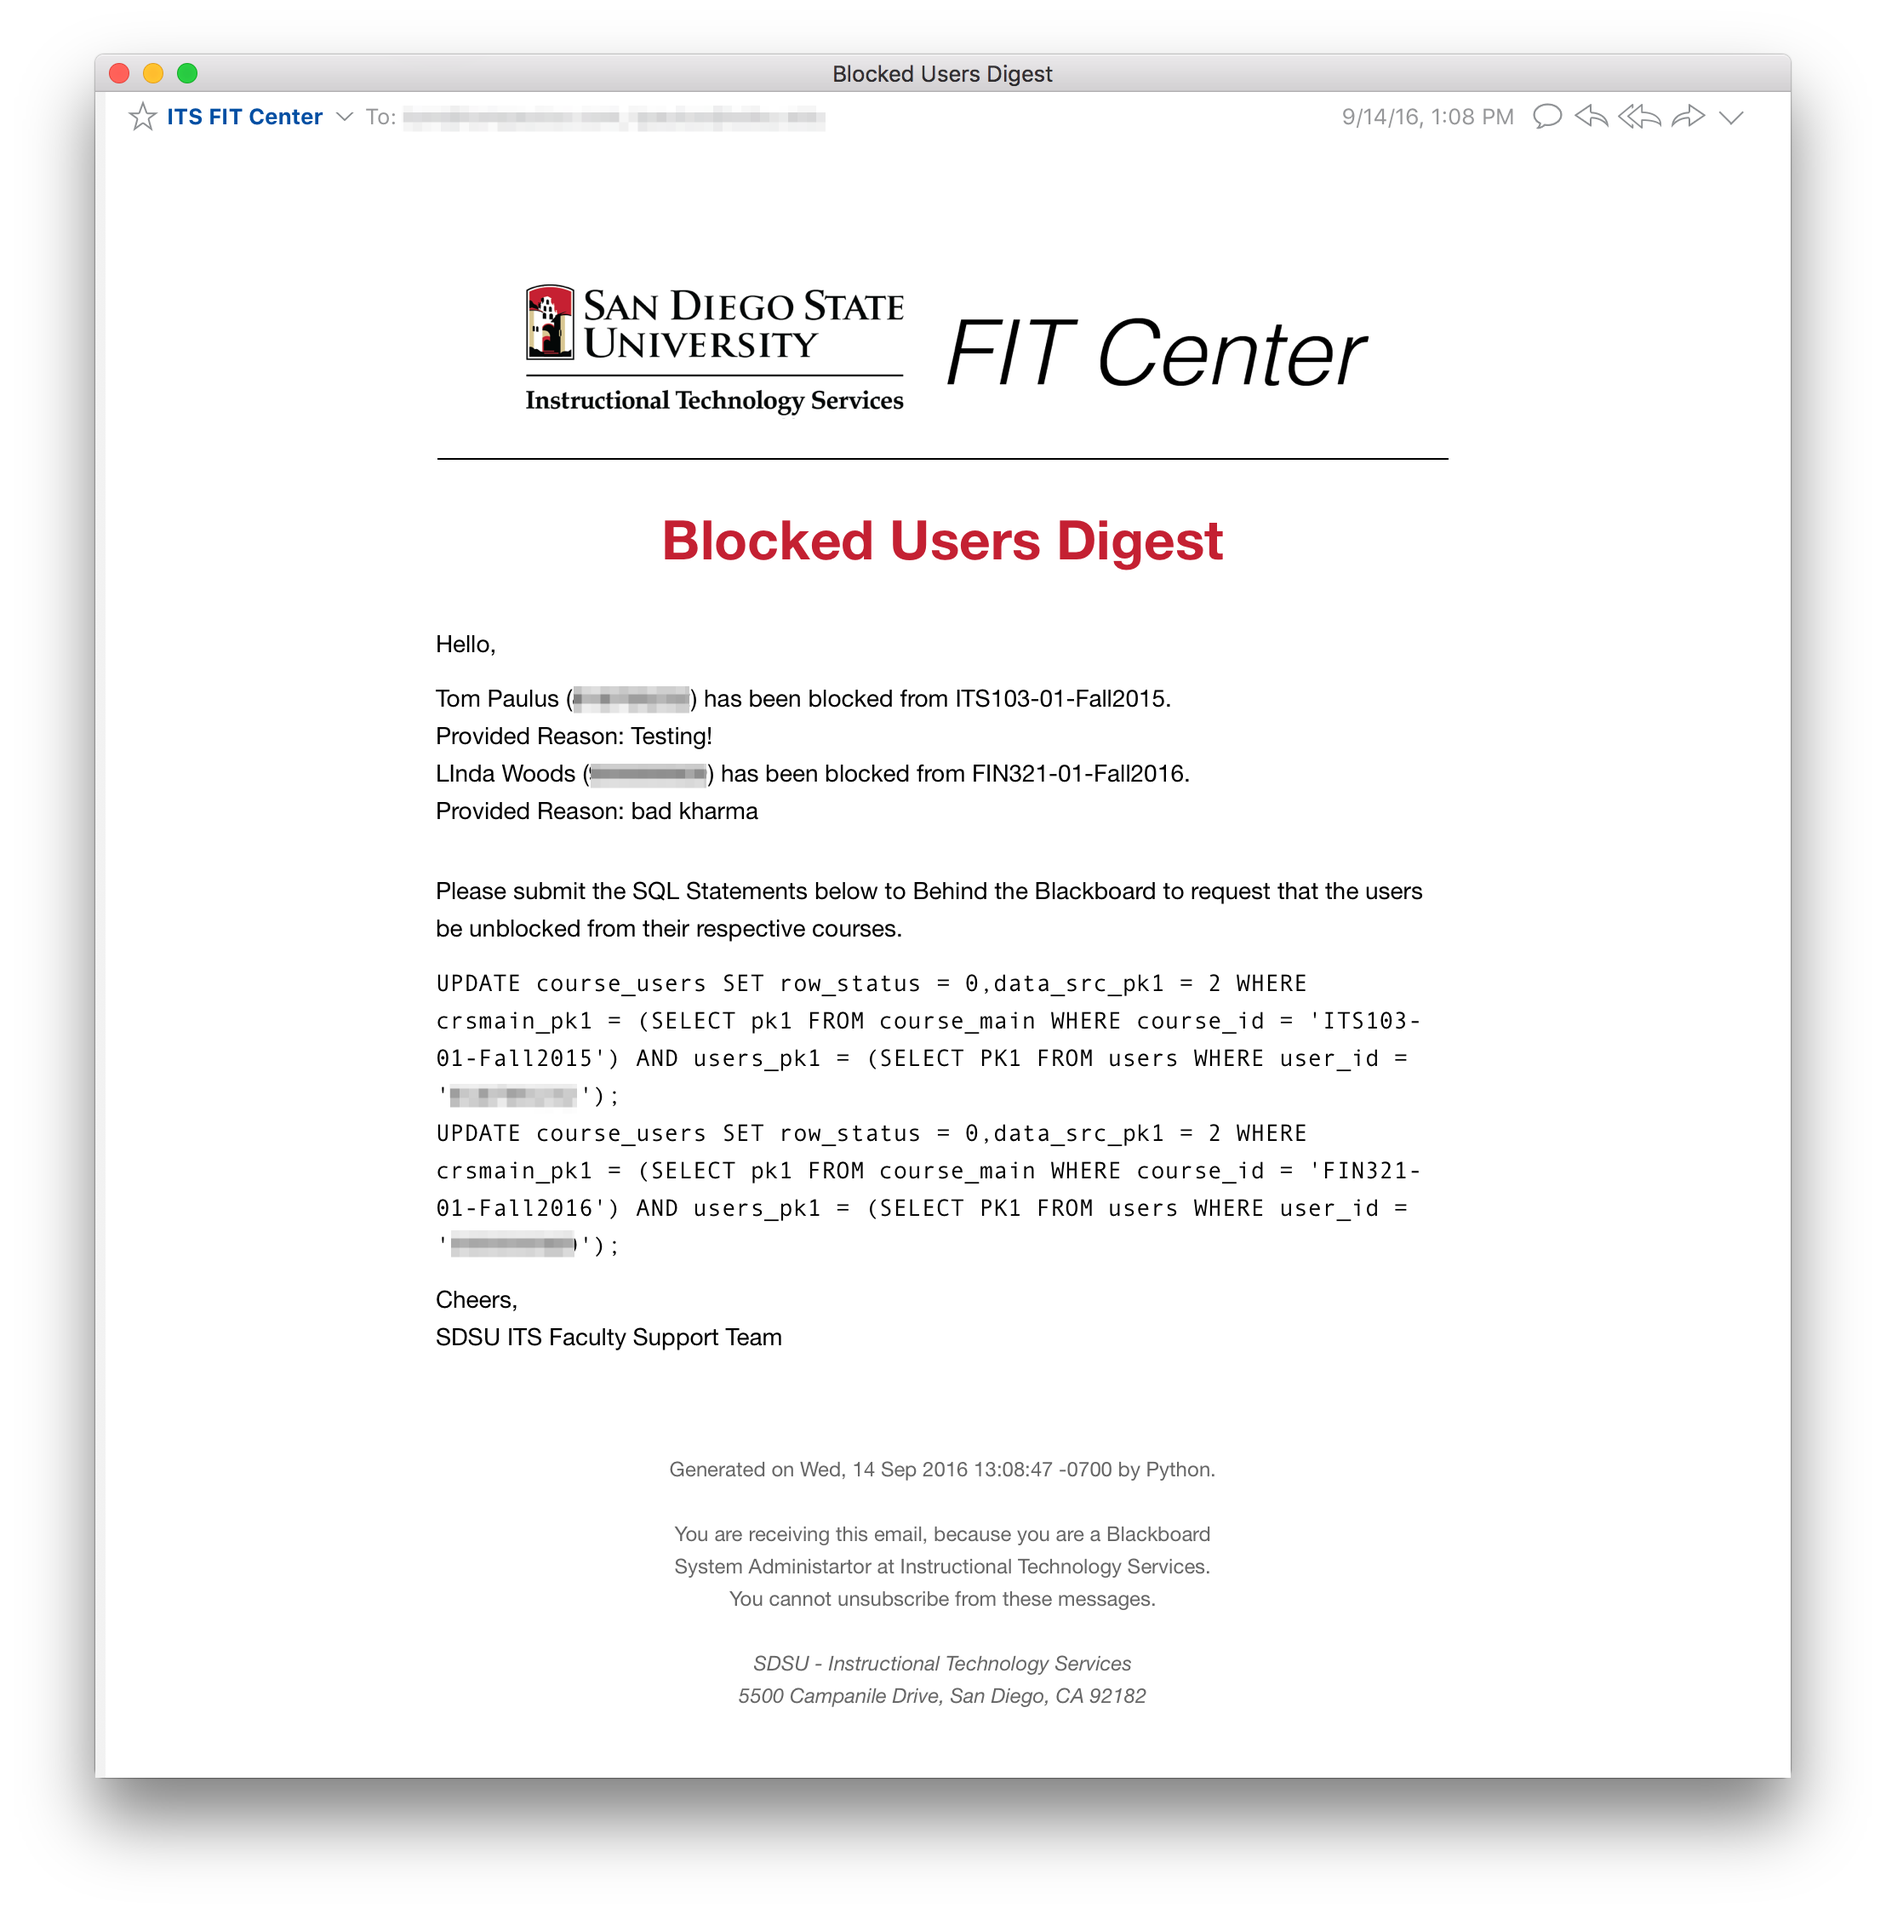
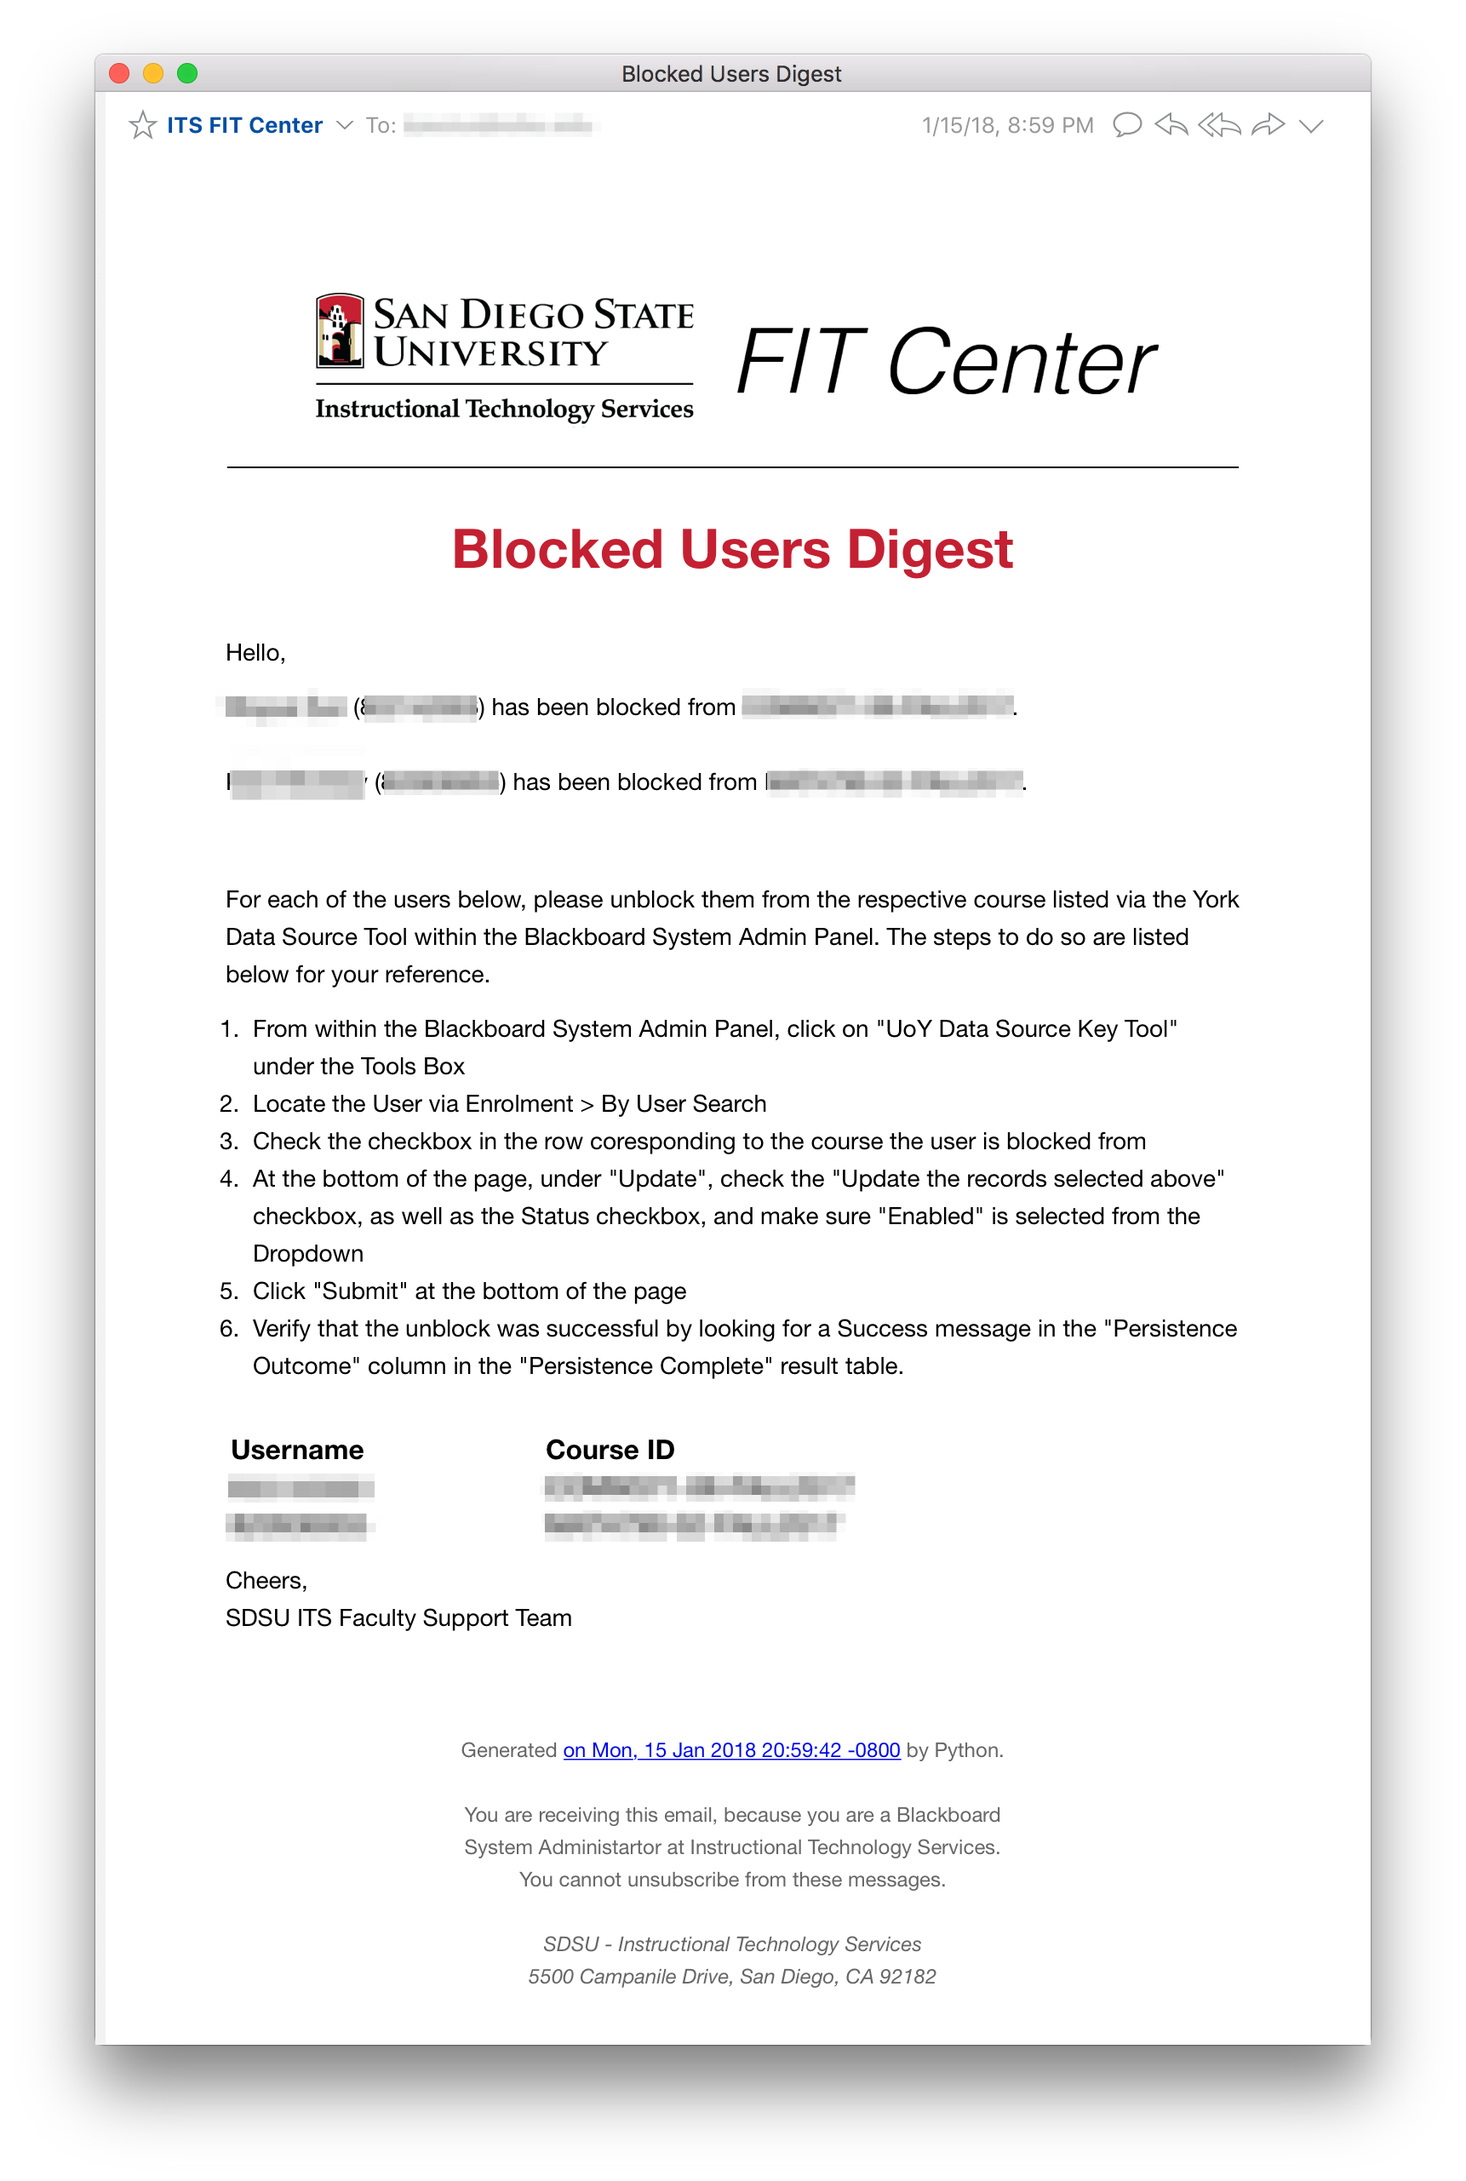
Changed template for use with UoY DSK Tool B2.

Changed region(s): [[0.1539, 0.1246, 0.831, 0.7473], [0.0308, 0.0311, 0.9541, 0.9653]]

diff --git a/email_template.html b/email_template.html
@@ -44,13 +44,40 @@
                             </p>
 
                             <p style="font-family: 'Helvetica Neue', 'Helvetica', Helvetica, Arial, sans-serif; font-size: 14px; line-height: 1.6; font-weight: normal; margin: 0 0 10px; padding: 0; padding-top: 15px">
-                                Please submit the SQL Statements below to Behind the Blackboard to request that the
-                                users be unblocked from their respective courses.
+                                For each of the users below, please unblock them from the respective course listed via
+                                the York Data Source Tool within the Blackboard System Admin Panel. The steps to do so
+                                are listed below for your reference.
+
                             </p>
 
-                            <p style="font-family: 'Andale Mono', monospace, sans-serif; font-size: 14px; line-height: 1.6; font-weight: normal; margin: 0 0 10px; padding: 0;">
-                                {{ blocked_user_sql }}
-                            </p>
+                            <ol style="font-family: 'Helvetica Neue', 'Helvetica', Helvetica, Arial, sans-serif; font-size: 14px; line-height: 1.6; font-weight: normal; margin: 0 0 10px 16px; padding: 0;">
+                                <li>From within the Blackboard System Admin Panel, click on "UoY Data Source Key Tool"
+                                    under the Tools Box
+                                </li>
+                                <li>Locate the User via Enrolment > By User Search</li>
+                                <li>Check the checkbox in the row coresponding to the course the user is blocked from
+                                </li>
+                                <li>At the bottom of the page, under "Update", check the "Update the records selected
+                                    above" checkbox, as well as the Status checkbox, and make sure "Enabled" is selected
+                                    from the Dropdown
+                                </li>
+                                <li>Click "Submit" at the bottom of the page</li>
+                                <li>Verify that the unblock was successful by looking for a Success message in the
+                                    "Persistence Outcome" column in the "Persistence Complete" result table.
+                                </li>
+                            </ol>
+
+                            <div style="font-family: 'Helvetica Neue', 'Helvetica', Helvetica, Arial, sans-serif; font-size: 14px; line-height: 1.6; font-weight: normal; margin: 0 0 10px; padding: 0; padding-top: 15px">
+                                <table style="width: 100%; text-align: left">
+                                    <thead>
+                                    <th>Username</th>
+                                    <th>Course ID</th>
+                                    </thead>
+                                    <tbody>
+                                    {{ blocked_tbody }}
+                                    </tbody>
+                                </table>
+                            </div>
 
                             <p style="font-family: 'Helvetica Neue', 'Helvetica', Helvetica, Arial, sans-serif; font-size: 14px; line-height: 1.6; font-weight: normal; margin: 0 0 10px; padding: 0;">
                                 Cheers, <br/>

diff --git a/blocked_users.py b/blocked_users.py
@@ -19,10 +19,10 @@ import requests
 
 logging.basicConfig(level=logging.DEBUG, format='%(asctime)s - %(levelname)s - %(message)s')
 
-# noinspection SqlNoDataSourceInspection,SqlResolve
-SQL_CMD = "UPDATE course_users SET row_status = 0, data_src_pk1 = 2 WHERE crsmain_pk1 = (SELECT pk1 FROM course_main " \
-          "WHERE upper(course_id) = '%s') AND users_pk1 = (SELECT PK1 FROM users WHERE user_id = '%s');"
-
+TABLE_ROW = "<tr>" \
+            "<td>%s</td>" \
+            "<td>%s</td>" \
+            "</tr>"
 
 class Config(object):
     config_directory = expanduser("~") + ("/" if not expanduser("~").endswith("/") else '') + 'its'
@@ -370,7 +370,7 @@ if __name__ == "__main__":
     responses = Typeform.get_responses()
 
     email_needed = False
-    user_sql = ""
+    user_tbody = ""
     user_info = ""
 
     for r in responses:
@@ -392,7 +392,7 @@ if __name__ == "__main__":
                 user_info += "Provided Reason: " + context
             user_info += "\n"
 
-            user_sql += SQL_CMD % (course, username) + "\n"
+            user_tbody += TABLE_ROW % (username, course) + "\n"
 
             Config.history.append(r[u'token'])
             email_needed = True
@@ -407,7 +407,7 @@ if __name__ == "__main__":
     message = message \
         .replace("{{ generated_on_date_footer }}", formatdate(localtime=True)) \
         .replace("{{ blocked_user_info }}", user_info.replace("\n", "<br/>")) \
-        .replace("{{ blocked_user_sql }}", user_sql.replace("\n", "<br/>"))
+        .replace("{{ blocked_tbody }}", user_tbody)
 
     if email_needed:
         email = Email()

diff --git a/README.md b/README.md
@@ -5,12 +5,11 @@ Occasionally, a user in our Blackboard System will be blocked from a course for
 one reason or another, although this is often caused by conflicts in our
 enrollment system (Students who Add/Drop a class). We collect the data via a
 Type Form, specifically their Name, Username, and the Course that they are
-blocked from. This form can be customized to your specific needs, as long as it
-contains the needed information for the SQL Statement.
+blocked from. This form can be customized to your specific needs.
 
-Each Blackboard configuration will have a slightly different SQL base Statement
-that will unblock/enable a user in a course. The Email, and its template, can be
-customized to your department and system administrators needs.
+Each Blackboard configuration will have a slightly different method of unblocking
+users. The Email, and its template, can be customized to your department and system
+administrators needs.
 
 # Configuration
 The configuration is broken down into 2 sets (Typeform setup and Script Setup)
